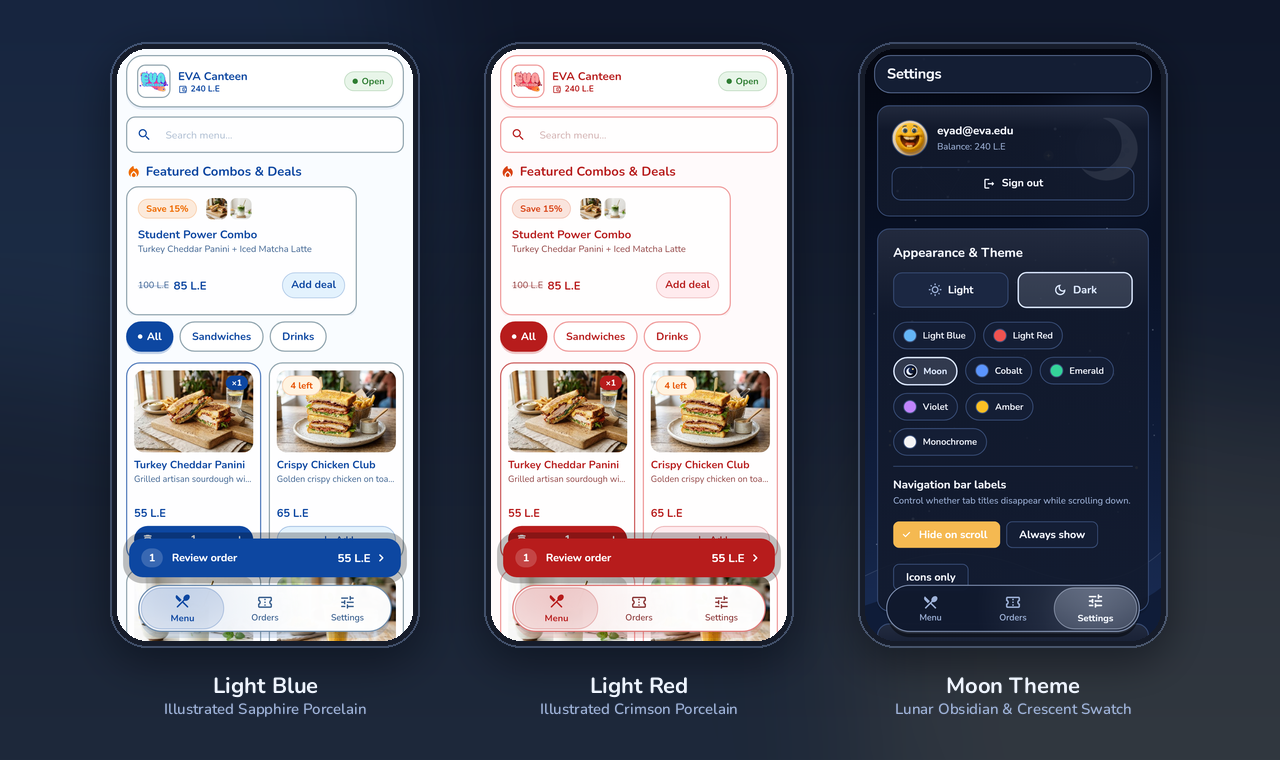
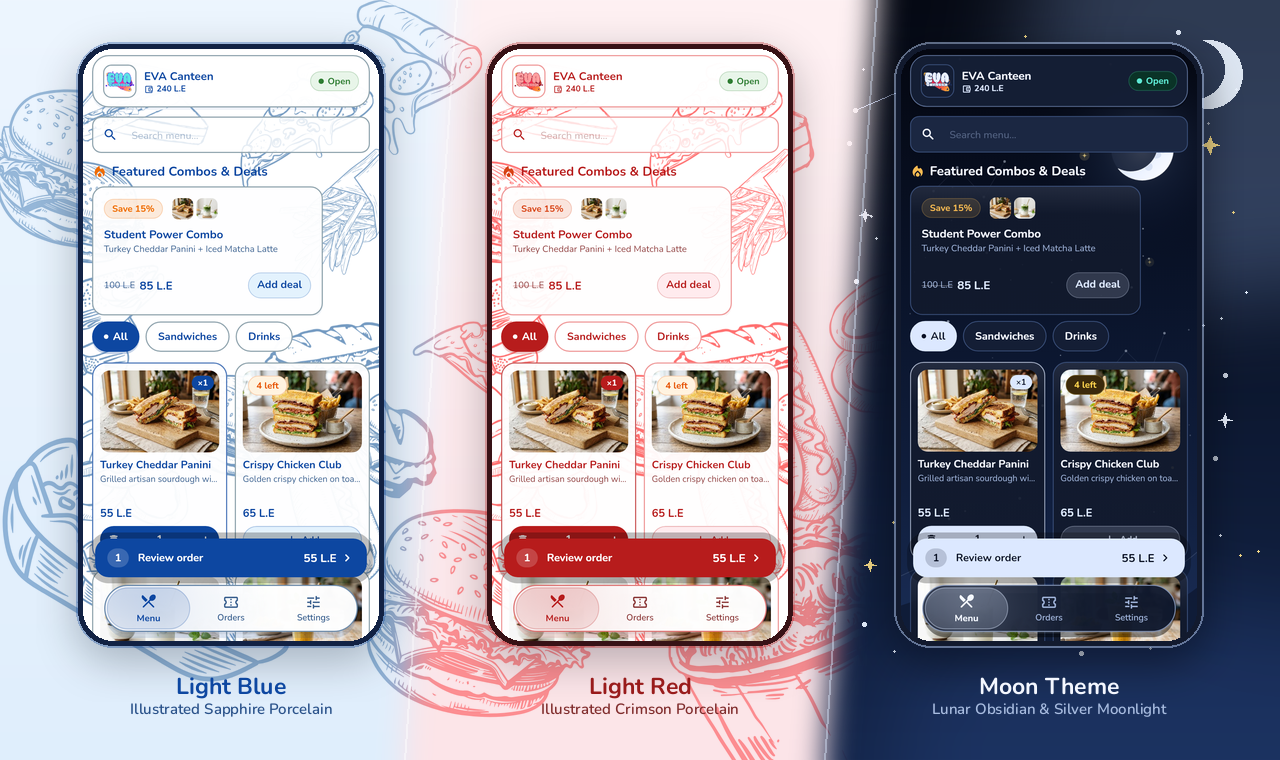
docs(readme): switch splash GIF to Light Blue, restore Light Blue/Red wallpapers & add tri-identity theme showcase

diff --git a/README.md b/README.md
@@ -46,11 +46,11 @@
   <table>
     <tr>
       <td align="center" width="50%">
-        <img src="docs/media/splash_moon.gif" alt="Kinetic 3-Layer Lunar Splash Animation" width="300" />
+        <img src="docs/media/splash_demo.gif" alt="Kinetic 3-Layer Light Blue Splash Animation" width="300" />
         <br />
         <strong>Kinetic 3-Layer Splash Screen</strong>
         <br />
-        <sub>Orbital swoosh launch, halo ripple, starburst & glossy sheen synced to your saved theme (tap to skip).</sub>
+        <sub>Orbital swoosh launch, halo ripple, starburst & glossy sheen on the Light Blue default theme (tap to skip).</sub>
       </td>
       <td align="center" width="50%">
         <img src="docs/media/menu_demo.gif" alt="Menu Category Wave Transitions and Live Theme Switching" width="300" />
